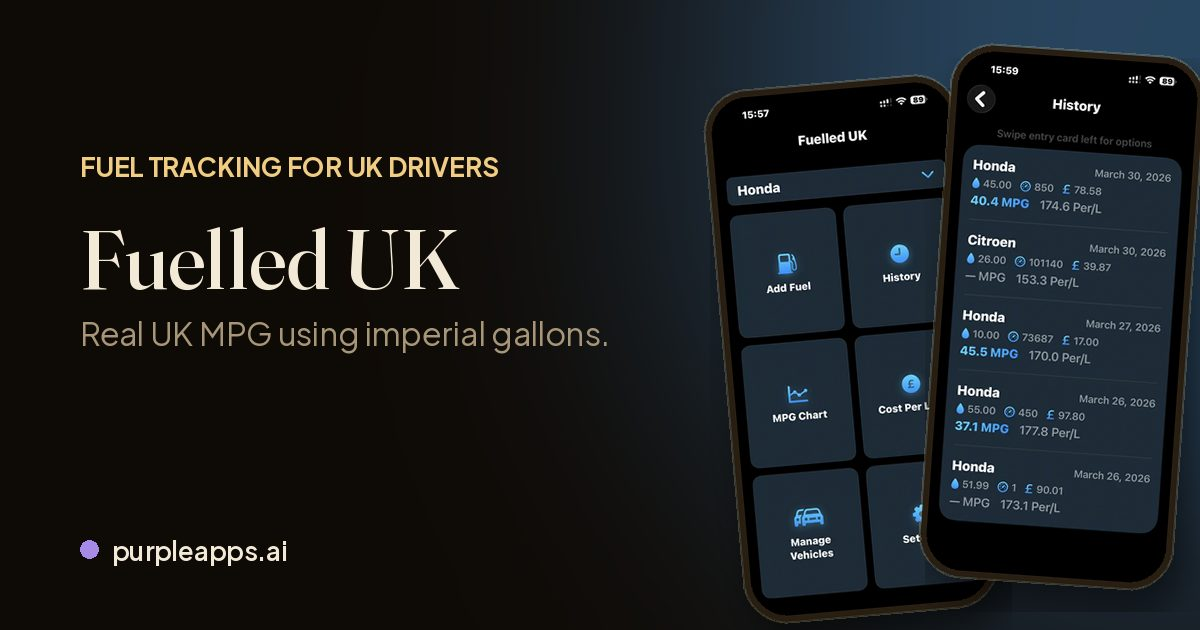
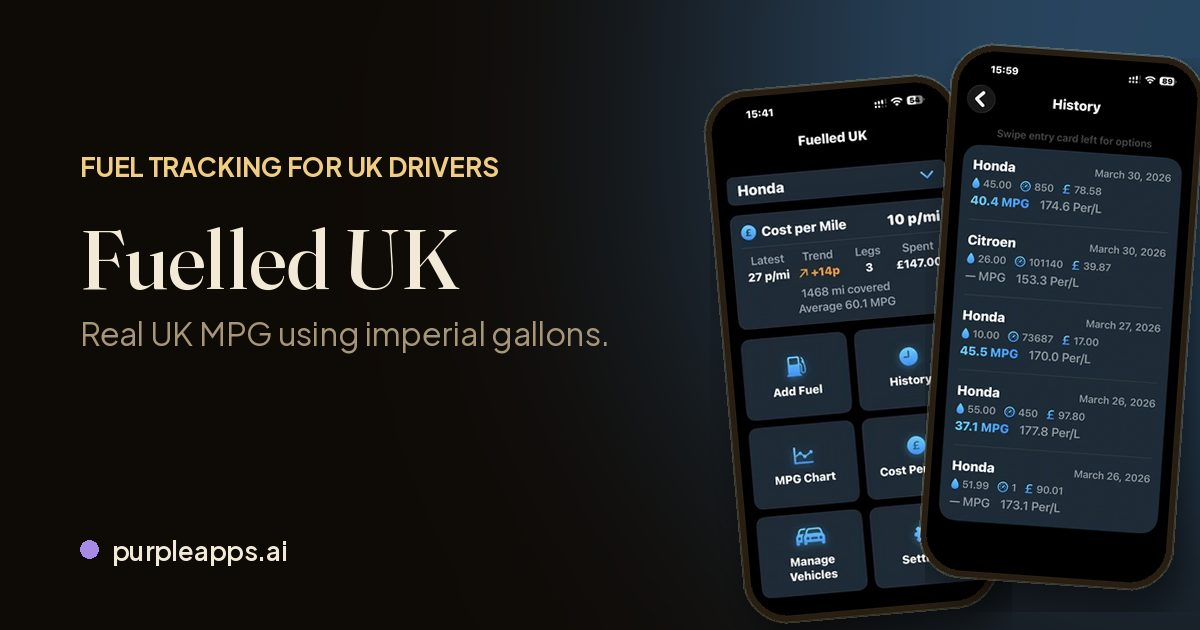
Fuelled UK: new home screenshot and copy matched to App Store listing; home page uses new Voxium and Fuelled UK screenshots

diff --git a/fuelled-uk.html b/fuelled-uk.html
@@ -43,7 +43,7 @@
         "url": "https://purpleapps.ai/"
       },
       "screenshot": [
-        "https://purpleapps.ai/assets/screenshots/fuelled-uk-main-screen.webp",
+        "https://purpleapps.ai/assets/screenshots/fuelled-uk-home.webp",
         "https://purpleapps.ai/assets/screenshots/fuelled-uk-history.webp"
       ],
       "downloadUrl": "https://apps.apple.com/gb/app/fuelled-uk/id6761028101",
@@ -85,7 +85,7 @@
         </div>
     </div>
     <div class="product-media" aria-hidden="true">
-        <div class="phone-frame tilt-left"><img src="assets/screenshots/fuelled-uk-main-screen.webp" alt="Fuelled UK main screen with Add Fuel, History, MPG Chart and Cost Per Litre buttons" width="640" height="1386" fetchpriority="high" decoding="async" /></div>
+        <div class="phone-frame tilt-left"><img src="assets/screenshots/fuelled-uk-home.webp" alt="Fuelled UK home screen with a Cost per Mile summary card above the Add Fuel, History, MPG Chart, Cost Per Litre, Manage Vehicles and Settings buttons" width="282" height="612" fetchpriority="high" decoding="async" /></div>
         <div class="phone-frame tilt-right"><img src="assets/screenshots/fuelled-uk-history.webp" alt="Fuelled UK fill-up history showing litres, mileage, cost and MPG for each entry" width="640" height="1386" decoding="async" /></div>
     </div>
 </header>
@@ -97,13 +97,14 @@
     <section class="feature-list">
         <h2>Key features</h2>
         <ul>
-            <li>Multi-vehicle support with colour-coded charts</li>
+            <li>Track as many vehicles as you like, each with its own fuel type and colour</li>
             <li>Accurate UK MPG calculations using imperial gallons</li>
-            <li>Log fill-ups with litres, mileage, and total cost in pounds</li>
+            <li>Log fill-ups with litres, mileage, and total cost in pounds; MPG and cost per litre are calculated automatically</li>
             <li>Complete fill-up history with edit and delete support</li>
-            <li>MPG and cost-per-litre charts</li>
+            <li>MPG and cost-per-litre charts, with each vehicle shown as its own line</li>
             <li>MOT, tax, and insurance renewal reminders</li>
-            <li>Automatic iCloud sync across your devices</li>
+            <li>Colour-coded renewal status in Manage Vehicles: green, amber, or expired</li>
+            <li>Automatic iCloud sync across your devices; works offline and syncs when a connection is available</li>
             <li>No account required</li>
         </ul>
     </section>
@@ -113,7 +114,7 @@
     </section>
     <section class="section-block">
         <h2>Never miss a renewal.</h2>
-        <p>Store the MOT, tax, and insurance expiry dates for each vehicle and turn on optional reminders. Fuelled UK sends local notifications ahead of every deadline &mdash; a month, two weeks, a week, and a day before &mdash; so nothing creeps up on you. Your dates sync privately across your devices via iCloud.</p>
+        <p>Store the MOT, tax, and insurance expiry dates for each vehicle and turn on optional reminders. Fuelled UK sends local notifications ahead of every deadline &mdash; a month, two weeks, a week, and a day before &mdash; so nothing creeps up on you. Manage Vehicles shows a colour-coded status for each vehicle &mdash; green, amber, or expired &mdash; at a glance. Your dates sync privately across your devices via iCloud.</p>
     </section>
     <section class="pricing-card">
         <h2>Try it free</h2>

diff --git a/index.html b/index.html
@@ -98,7 +98,7 @@
                 <img src="assets/screenshots/true-velocity-black-frost.webp" alt="True Velocity speedometer with the Frost dial on black leather" width="640" height="1387" decoding="async" />
             </div>
             <div class="phone-frame tertiary">
-                <img src="assets/screenshots/fuelled-uk-main-screen.webp" alt="Fuelled UK main screen with Add Fuel, History, MPG Chart and Cost Per Litre buttons" width="640" height="1386" decoding="async" />
+                <img src="assets/screenshots/fuelled-uk-home.webp" alt="Fuelled UK home screen with a Cost per Mile summary card above the Add Fuel, History, MPG Chart, Cost Per Litre, Manage Vehicles and Settings buttons" width="282" height="612" decoding="async" />
             </div>
         </div>
     </div>
@@ -137,7 +137,7 @@
             </div>
             <div class="app-card-media" aria-hidden="true">
                 <div class="phone-frame tilt-left"><img src="assets/screenshots/voxium-reader-sleep-timer.webp" alt="Voxium reading a story aloud with sentence highlighting and a sleep timer" width="640" height="1386" loading="lazy" decoding="async" /></div>
-                <div class="phone-frame tilt-right"><img src="assets/screenshots/voxium-voice-settings-1.webp" alt="Voxium voice settings with the on-device voice engine, speed and sentence pause controls" width="640" height="1386" loading="lazy" decoding="async" /></div>
+                <div class="phone-frame tilt-right"><img src="assets/screenshots/voxium-voice-engines.webp" alt="Voxium voice settings showing the six voice engines: On-Device, ElevenLabs, MiniMax, Soniox, xAI Grok and Fish Audio" width="282" height="612" loading="lazy" decoding="async" /></div>
             </div>
         </article>
 
